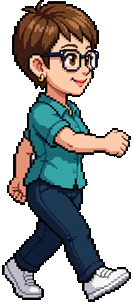
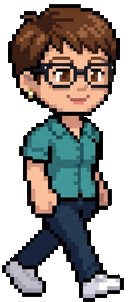
Gê: sprites refeitos com a nova folha (andar melhor) e --col-bounds na ferramenta
Claude-Session: https://claude.ai/code/session_01JWARVxodwXbVVRqa2zBGJ1

diff --git a/tools/sheet_to_sprites.py b/tools/sheet_to_sprites.py
@@ -13,6 +13,7 @@ Uso (da raiz do repo, precisa de Pillow e numpy):
       --idle-from 3 --out assets --preview /tmp/preview.png
 
 Saída: assets/<name>_walk1..N.png e assets/<name>_idle.png (alpha só 0 ou 255).
+Poses de larguras diferentes: --col-bounds com os x dos cortes (senão a folha é dividida em colunas iguais).
 A ordem dos frames é a de leitura (esquerda->direita, cima->baixo).
 Para uma pose parada vinda de outra imagem, use --idle-image (se já tiver fundo transparente é usada como está).
 Dependências só do desenvolvimento: o jogo continua sem build e sem npm/pip.
@@ -320,6 +321,8 @@ def build_parser():
     ap.add_argument('--name', required=True, help='prefixo dos arquivos (ex.: marilia)')
     ap.add_argument('--cols', type=int, default=2)
     ap.add_argument('--rows', type=int, default=2)
+    ap.add_argument('--col-bounds', help='x dos cortes entre colunas, separados por vírgula, no meio dos vãos de fundo '
+                    '(ex.: 540,1064,1539); use quando as poses não têm larguras iguais. Define o número de colunas')
     ap.add_argument('--split-y', type=int, help='linha que separa as fileiras (padrão: detecta pela mudança de fundo)')
     ap.add_argument('--trim-edge', type=int, default=2, help='px descartados nas bordas externas da folha (artefato de borda)')
     ap.add_argument('--inset', type=int, default=3, help='px descartados junto às costuras entre quadrantes')
@@ -361,7 +364,12 @@ def grid_lines(sheet, args):
         ys = [0, sy, H]
     else:
         ys = [round(i * H / args.rows) for i in range(args.rows + 1)]
-    xs = [round(i * W / args.cols) for i in range(args.cols + 1)]
+    if args.col_bounds:
+        # Poses de larguras diferentes: os cortes vêm dos vãos de fundo medidos na folha original
+        xs = [0] + [int(b) - args.trim_edge for b in args.col_bounds.split(',')] + [W]
+        args.cols = len(xs) - 1
+    else:
+        xs = [round(i * W / args.cols) for i in range(args.cols + 1)]
     return xs, ys
 
 

diff --git a/CLAUDE.md b/CLAUDE.md
@@ -101,7 +101,9 @@ nome). O GitHub Actions roda isso a cada push e PR. Música e botões de toque s
 `tools/sheet_to_sprites.py` (Pillow + numpy) converte uma folha de frames gerada por IA nos PNGs de um personagem:
 remove o fundo, usa escala única e alinha o centro de massa para o personagem não balançar ao andar.
 `--normalize-parts` iguala cabeça e pernas entre frames (referências detectadas pela roupa da Pitcha; para outro
-personagem use `--landmarks arquivo.json` com `eye_y`, `neck_y`, `hem_y`).
+personagem use `--landmarks arquivo.json` com `eye_y`, `neck_y`, `hem_y`). Poses de larguras diferentes na folha:
+`--col-bounds x1,x2,…` (cortes no meio dos vãos de fundo). Vãos fechados entre braço e corpo que sobrarem em cinza
+devem ser limpos à mão (acontece em poses com o braço colado ao corpo).
 
 ```bash
 python3 tools/sheet_to_sprites.py folha.jpg --name marilia --cols 2 --rows 2 --idle-from 3 --out assets --preview /tmp/preview.png
